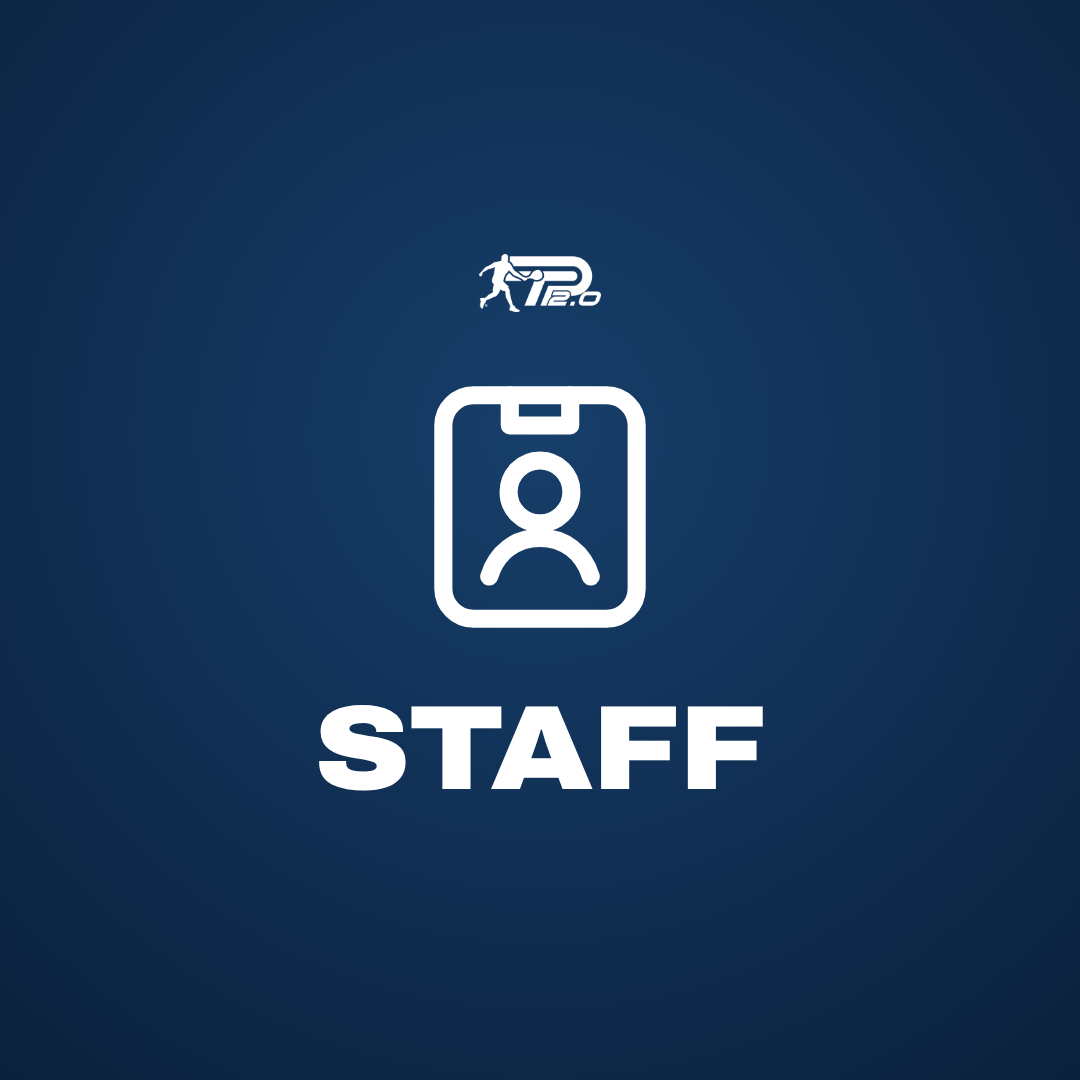
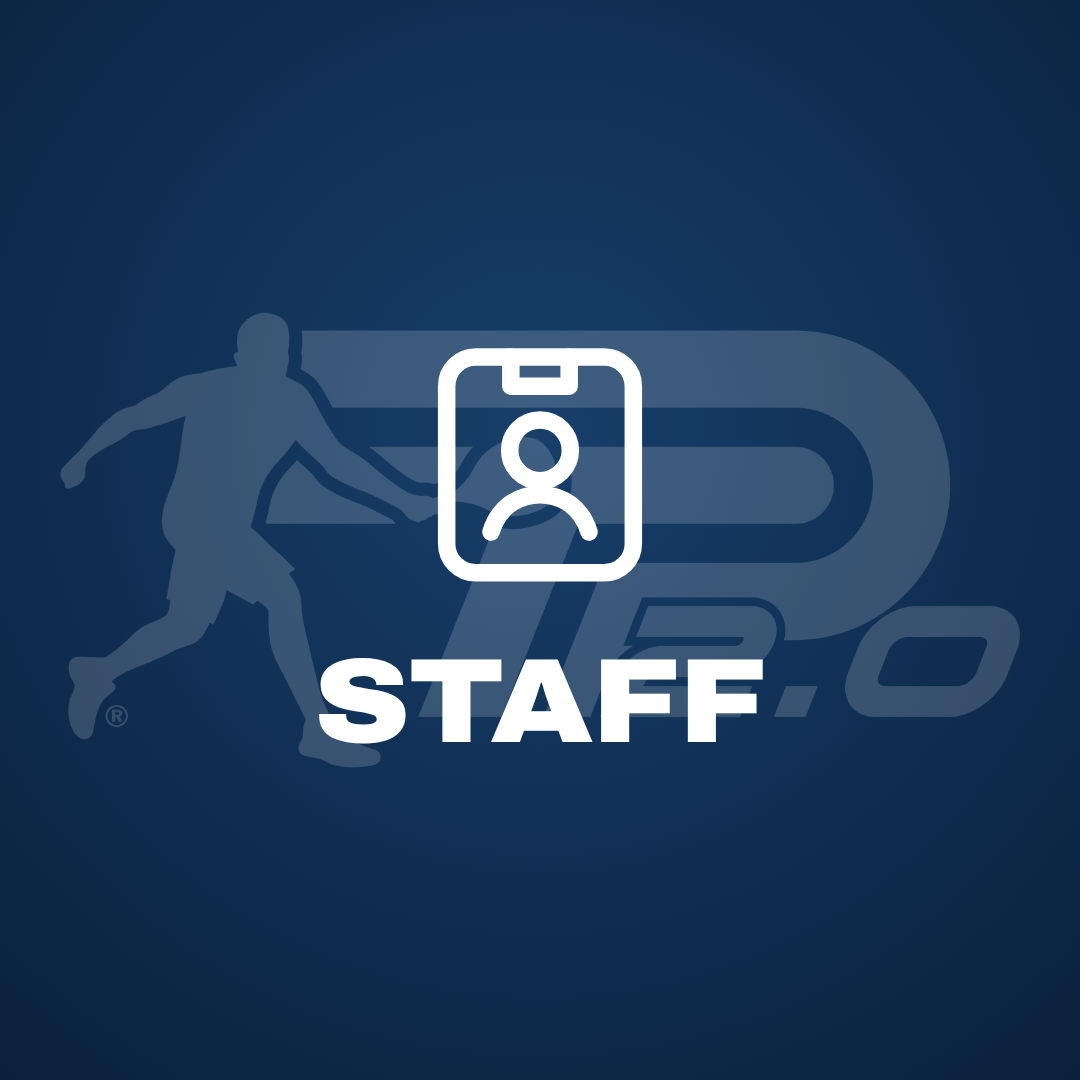
Icones WhatsApp finais
Claude-Session: https://claude.ai/code/session_01YAkTQk1jS2UJe1ngAj8tnN

Changed region(s): [[0.0611, 0.2139, 0.9472, 0.7333]]

diff --git a/src/whatsapp-gen.py b/src/whatsapp-gen.py
@@ -16,18 +16,23 @@ I={
 }
 def svg(k,s,c='#fff'): return f'<svg viewBox="0 0 24 24" width="{s}" height="{s}" fill="none" stroke="{c}" stroke-width="1.5" stroke-linecap="round" stroke-linejoin="round" style="color:{c}">{I[k]}</svg>'
 def logo(white=True,h=64): return f'<img src="{A}logos/{"branco" if white else "azul"}_simbolo20.png" style="height:{h}px">'
+import os as _o
+WM=_o.environ.get('WM','0')=='1'
 def page(bg,inner,fg='#fff'):
-    return f"""<!doctype html><meta charset=utf-8><style>{FONT}*{{margin:0;box-sizing:border-box}}body{{width:1080px;height:1080px;background:{bg};color:{fg};font-family:Archivo;display:flex;flex-direction:column;align-items:center;justify-content:center;text-align:center}}
+    dark = fg=='#fff'
+    wm=(f'<img src="{A}logos/{"branco" if dark else "azul"}_simbolo20.png" style="position:absolute;left:50%;top:50%;width:960px;transform:translate(-50%,-50%);opacity:{(.26 if bg==BLUE else .17) if dark else .13};pointer-events:none">' if WM else '')
+    inner=wm+'<div style="position:relative;display:flex;flex-direction:column;align-items:center">'+inner+'</div>'
+    return f"""<!doctype html><meta charset=utf-8><style>{FONT}*{{margin:0;box-sizing:border-box}}body{{position:relative;overflow:hidden;width:1080px;height:1080px;background:{bg};color:{fg};font-family:Archivo;display:flex;flex-direction:column;align-items:center;justify-content:center;text-align:center}}
 .lab{{font-weight:900;font-stretch:112%;letter-spacing:-.01em;text-transform:uppercase;line-height:.95}}.sub{{font-weight:700;font-size:44px;letter-spacing:.18em;text-transform:uppercase;opacity:.85}}</style><body>{inner}</body>"""
 def icon_page(k,label,size=96,bg=NAVY,sub=None):
-    s=f'<div style="margin-top:-20px">{logo(h=58)}</div><div style="margin:44px 0 40px">{svg(k,290)}</div><div class="lab" style="font-size:{size}px">{label}</div>'
+    s=f'<div style="margin:0 0 40px">{svg(k,280)}</div><div class="lab" style="font-size:{size}px">{label}</div>'
     if sub: s+=f'<div class="sub" style="font-size:36px;margin-top:18px">{sub}</div>'
     return page(bg,s)
 P={}
 P['01-comunidade']=page(NAVY,f'<img src="{A}logos/branco_vertical.png" style="width:560px"><div class="sub" style="margin-top:56px;font-size:50px;letter-spacing:.22em">Comunidade</div>')
 P['02-gerencia']=icon_page('briefcase','Gerência',bg=DARK)
 P['03-staff']=icon_page('badge','Staff',size=120,bg=DARK)
-P['04-ricardo-santos']=page(BLUE,f'<div style="margin-top:-10px">{logo(h=58)}</div><div class="lab" style="font-size:300px;margin:30px 0 10px;letter-spacing:-.04em">RS</div><div class="lab" style="font-size:72px">Ricardo Santos</div><div class="sub" style="font-size:40px;margin-top:20px;letter-spacing:.08em">Treinador &amp; Relações Públicas</div>')
+P['04-ricardo-santos']=page(NAVY,f'<div class="lab" style="font-size:120px">Ricardo<br>Santos</div><div class="sub" style="font-size:40px;margin-top:20px;letter-spacing:.08em">Treinador &amp; Relações Públicas</div>')
 P['05-professores']=icon_page('racket','Professores',size=92)
 P['06-tips-tricks']=icon_page('bulb','Tips &amp; Tricks',size=96,bg=BLUE)
 P['07-alvoradas']=icon_page('sunrise','Alvoradas',size=100,bg=NAVY)
@@ -36,23 +41,23 @@ T={'F':(BLUE,'#fff','Feminino',True),'M':(NAVY,'#fff','Masculino',True),'X':(WHI
 for i,(n,t) in enumerate(lv):
     bg,fg,sub,w=T[t]
     acc='#5fd0f5' if t=='M' else ('#ffffff' if t=='F' else '#12ace3')
-    P[f'{8+i:02d}-{n.lower().replace("+","-mais")}']=page(bg,f'<div style="margin-top:-30px">{logo(w,h=62)}</div><div class="lab" style="font-size:{340 if len(n)<3 else 300}px;margin:36px 0 26px;letter-spacing:-.05em;text-transform:none">{n.replace("+","<span style=&quot;color:"+acc+"&quot;>+</span>")}</div><div class="sub" style="font-size:46px">{sub}</div>',fg)
-ball='<svg viewBox="0 0 100 100" width="110" height="110" style="position:absolute;right:170px;top:-10px;filter:drop-shadow(0 10px 16px rgba(0,0,0,.3))"><defs><radialGradient id="bg" cx="35%" cy="30%" r="75%"><stop offset="0" stop-color="#e4f27a"/><stop offset=".6" stop-color="#c6dc3c"/><stop offset="1" stop-color="#93ad16"/></radialGradient><clipPath id="cc"><circle cx="50" cy="50" r="47"/></clipPath></defs><circle cx="50" cy="50" r="47" fill="url(#bg)"/><g clip-path="url(#cc)" fill="none" stroke="#fbfdf0" stroke-width="4.2" stroke-linecap="round"><path d="M14 6 C 40 26, 40 74, 14 94"/><path d="M86 6 C 60 26, 60 74, 86 94"/></g></svg>'
-P['21-torneio-natal-equipas']=page(RED,f'<div style="position:relative;width:100%;display:flex;flex-direction:column;align-items:center">{ball}<div style="margin-top:-20px">{logo(h=58)}</div><div class="lab" style="font-size:44px;letter-spacing:.3em;margin-top:40px;font-stretch:125%">Torneio de</div><div class="lab" style="font-size:196px;font-stretch:118%;letter-spacing:-.03em;margin-top:6px">Natal</div><div style="background:#fff;color:#c8102e;font-weight:900;font-size:50px;letter-spacing:.08em;padding:12px 36px;margin-top:30px;text-transform:uppercase;font-stretch:115%">Equipas</div><div class="sub" style="font-size:34px;margin-top:26px">4 · 5 · 6 Dezembro</div></div>')
+    P[f'{8+i:02d}-{n.lower().replace("+","-mais")}']=page(bg,f'<div class="lab" style="font-size:{400 if len(n)<3 else 330}px;letter-spacing:-.05em;text-transform:none">{n.replace("+","<span style=&quot;color:"+acc+"&quot;>+</span>")}</div>',fg)
+ball='<svg viewBox="0 0 100 100" width="110" height="110" style="position:absolute;right:200px;top:20px;filter:drop-shadow(0 10px 16px rgba(0,0,0,.3))"><defs><radialGradient id="bg" cx="35%" cy="30%" r="75%"><stop offset="0" stop-color="#e4f27a"/><stop offset=".6" stop-color="#c6dc3c"/><stop offset="1" stop-color="#93ad16"/></radialGradient><clipPath id="cc"><circle cx="50" cy="50" r="47"/></clipPath></defs><circle cx="50" cy="50" r="47" fill="url(#bg)"/><g clip-path="url(#cc)" fill="none" stroke="#fbfdf0" stroke-width="4.2" stroke-linecap="round"><path d="M14 6 C 40 26, 40 74, 14 94"/><path d="M86 6 C 60 26, 60 74, 86 94"/></g></svg>'
+P['21-torneio-natal-equipas']=page(RED,f'<div style="position:relative;width:100%;display:flex;flex-direction:column;align-items:center">{ball}<div style="margin-top:-20px">{logo(h=130)}</div><div class="lab" style="font-size:44px;letter-spacing:.3em;margin-top:40px;font-stretch:125%">Torneio de</div><div class="lab" style="font-size:196px;font-stretch:118%;letter-spacing:-.03em;margin-top:6px">Natal</div><div style="background:#fff;color:#c8102e;font-weight:900;font-size:50px;letter-spacing:.08em;padding:12px 36px;margin-top:30px;text-transform:uppercase;font-stretch:115%">Equipas</div><div class="sub" style="font-size:34px;margin-top:26px">4 · 5 · 6 Dezembro</div></div>')
 from playwright.sync_api import sync_playwright
-os.makedirs('out',exist_ok=True)
+OUT='out_wm' if WM else 'out';os.makedirs(OUT,exist_ok=True)
 with sync_playwright() as p:
     b=p.chromium.launch();pg=b.new_page(viewport={'width':1080,'height':1080})
     for n,h in P.items():
-        open('t.html','w').write(h);pg.goto('file:///home/claude/wa/t.html');pg.wait_for_timeout(250);pg.screenshot(path=f'out/{n}.png')
+        open('t.html','w').write(h);pg.goto('file:///home/claude/wa/t.html');pg.wait_for_timeout(250);pg.screenshot(path=f'{OUT}/{n}.png')
     b.close()
 # preview sheet with circle crop
 from PIL import Image,ImageDraw
-fs=sorted(os.listdir('out'));fs=[f for f in fs if f[0].isdigit()]
+fs=sorted(os.listdir(OUT));fs=[f for f in fs if f[0].isdigit()]
 C=7;S=200;G=24;rows=(len(fs)+C-1)//C
 sheet=Image.new('RGB',(C*(S+G)+G,rows*(S+G)+G),(11,20,26))
 m=Image.new('L',(S,S),0);ImageDraw.Draw(m).ellipse((0,0,S,S),fill=255)
 for i,f in enumerate(fs):
-    im=Image.open('out/'+f).convert('RGB').resize((S,S),Image.LANCZOS)
+    im=Image.open(OUT+'/'+f).convert('RGB').resize((S,S),Image.LANCZOS)
     sheet.paste(im,(G+(i%C)*(S+G),G+(i//C)*(S+G)),m)
-sheet.save('sheet.png')
+sheet.save('sheet_wm.png' if WM else 'sheet.png')
